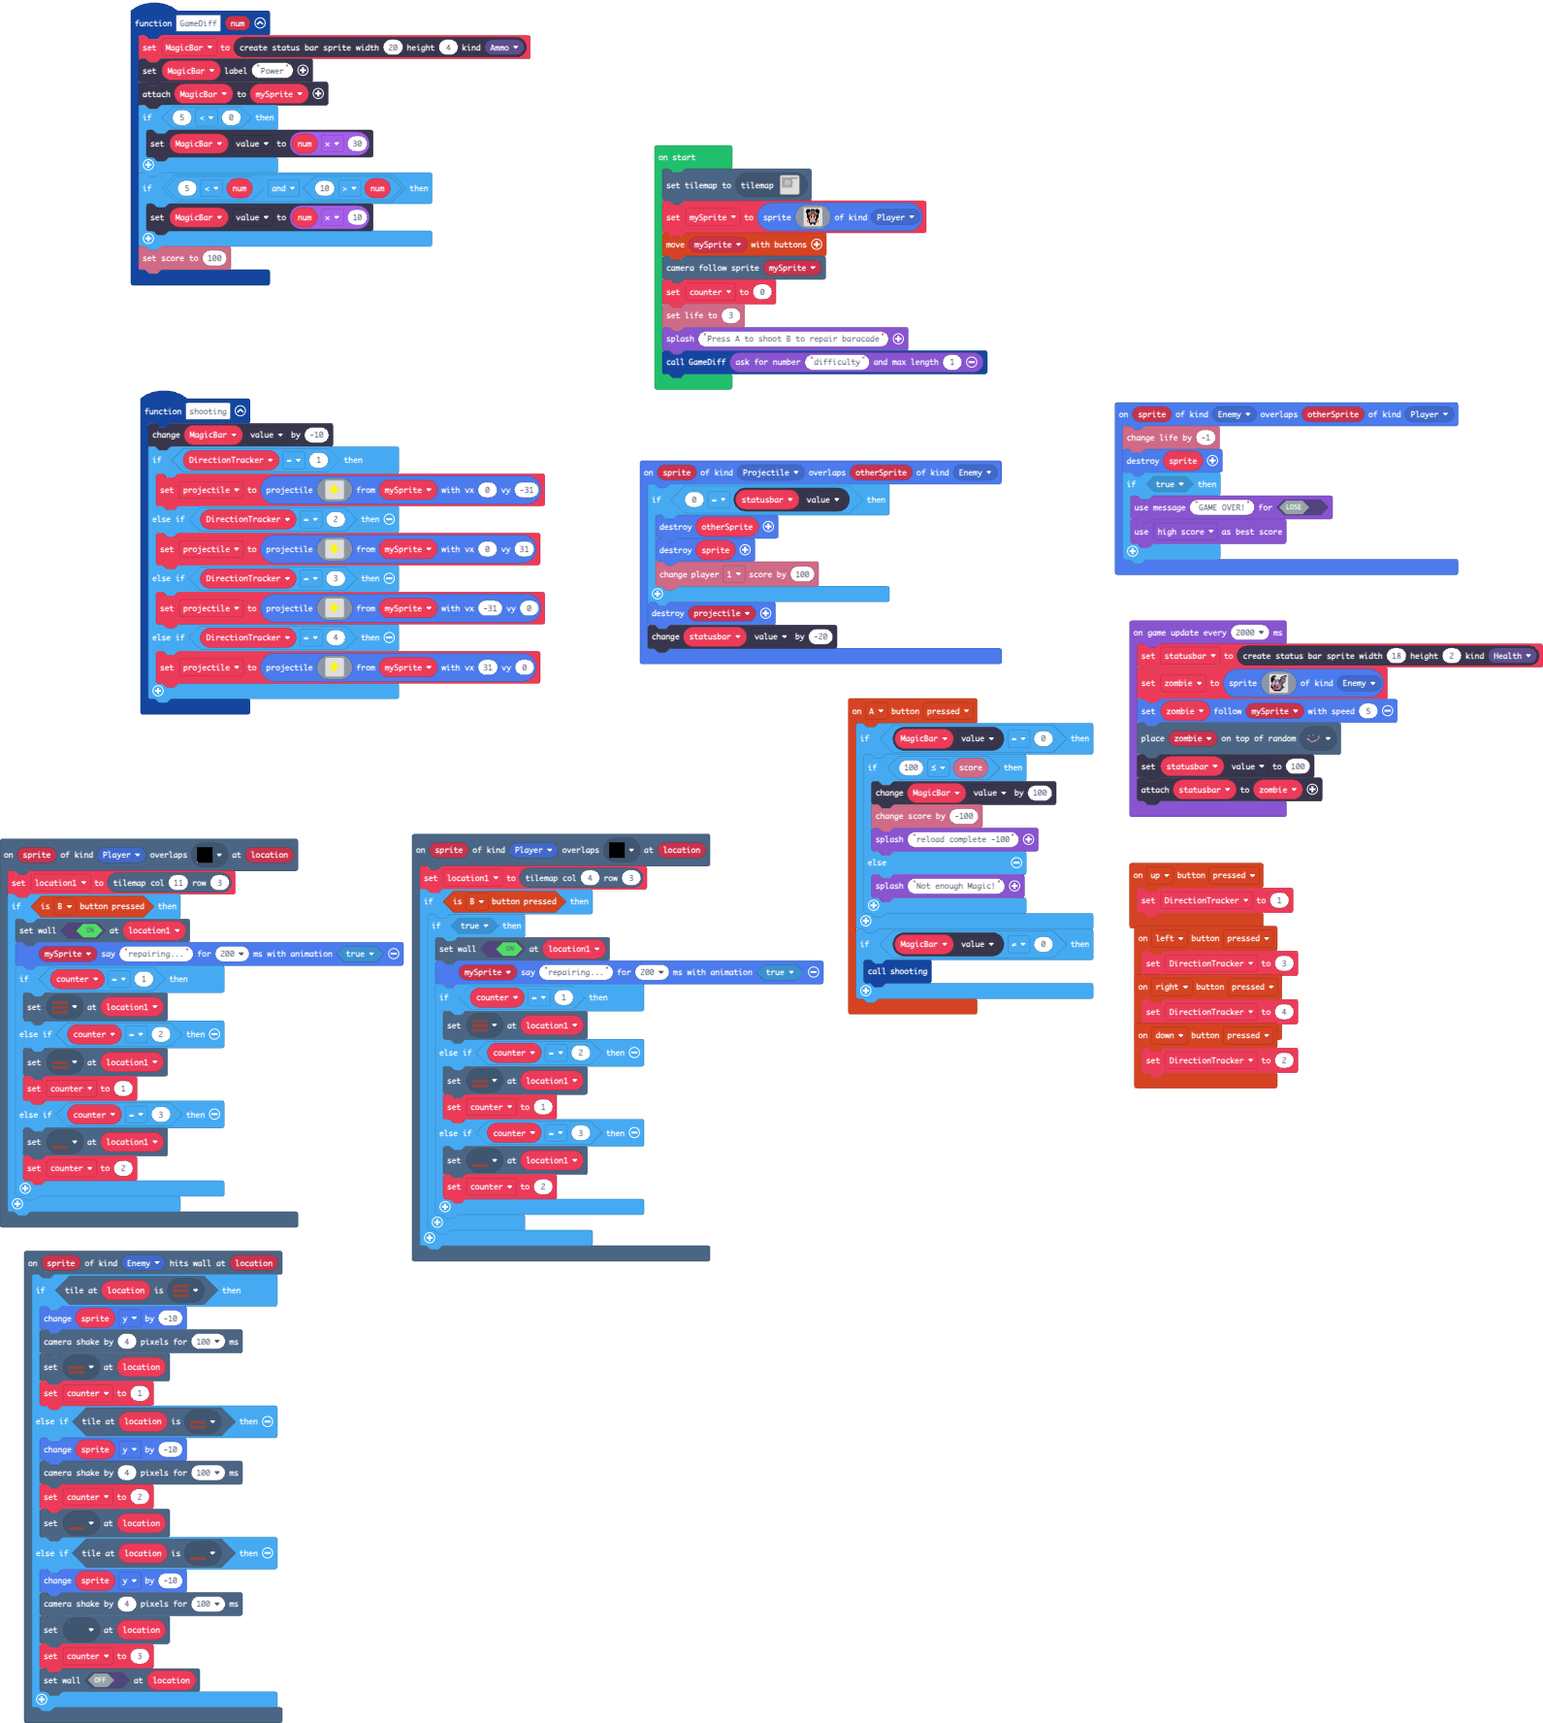
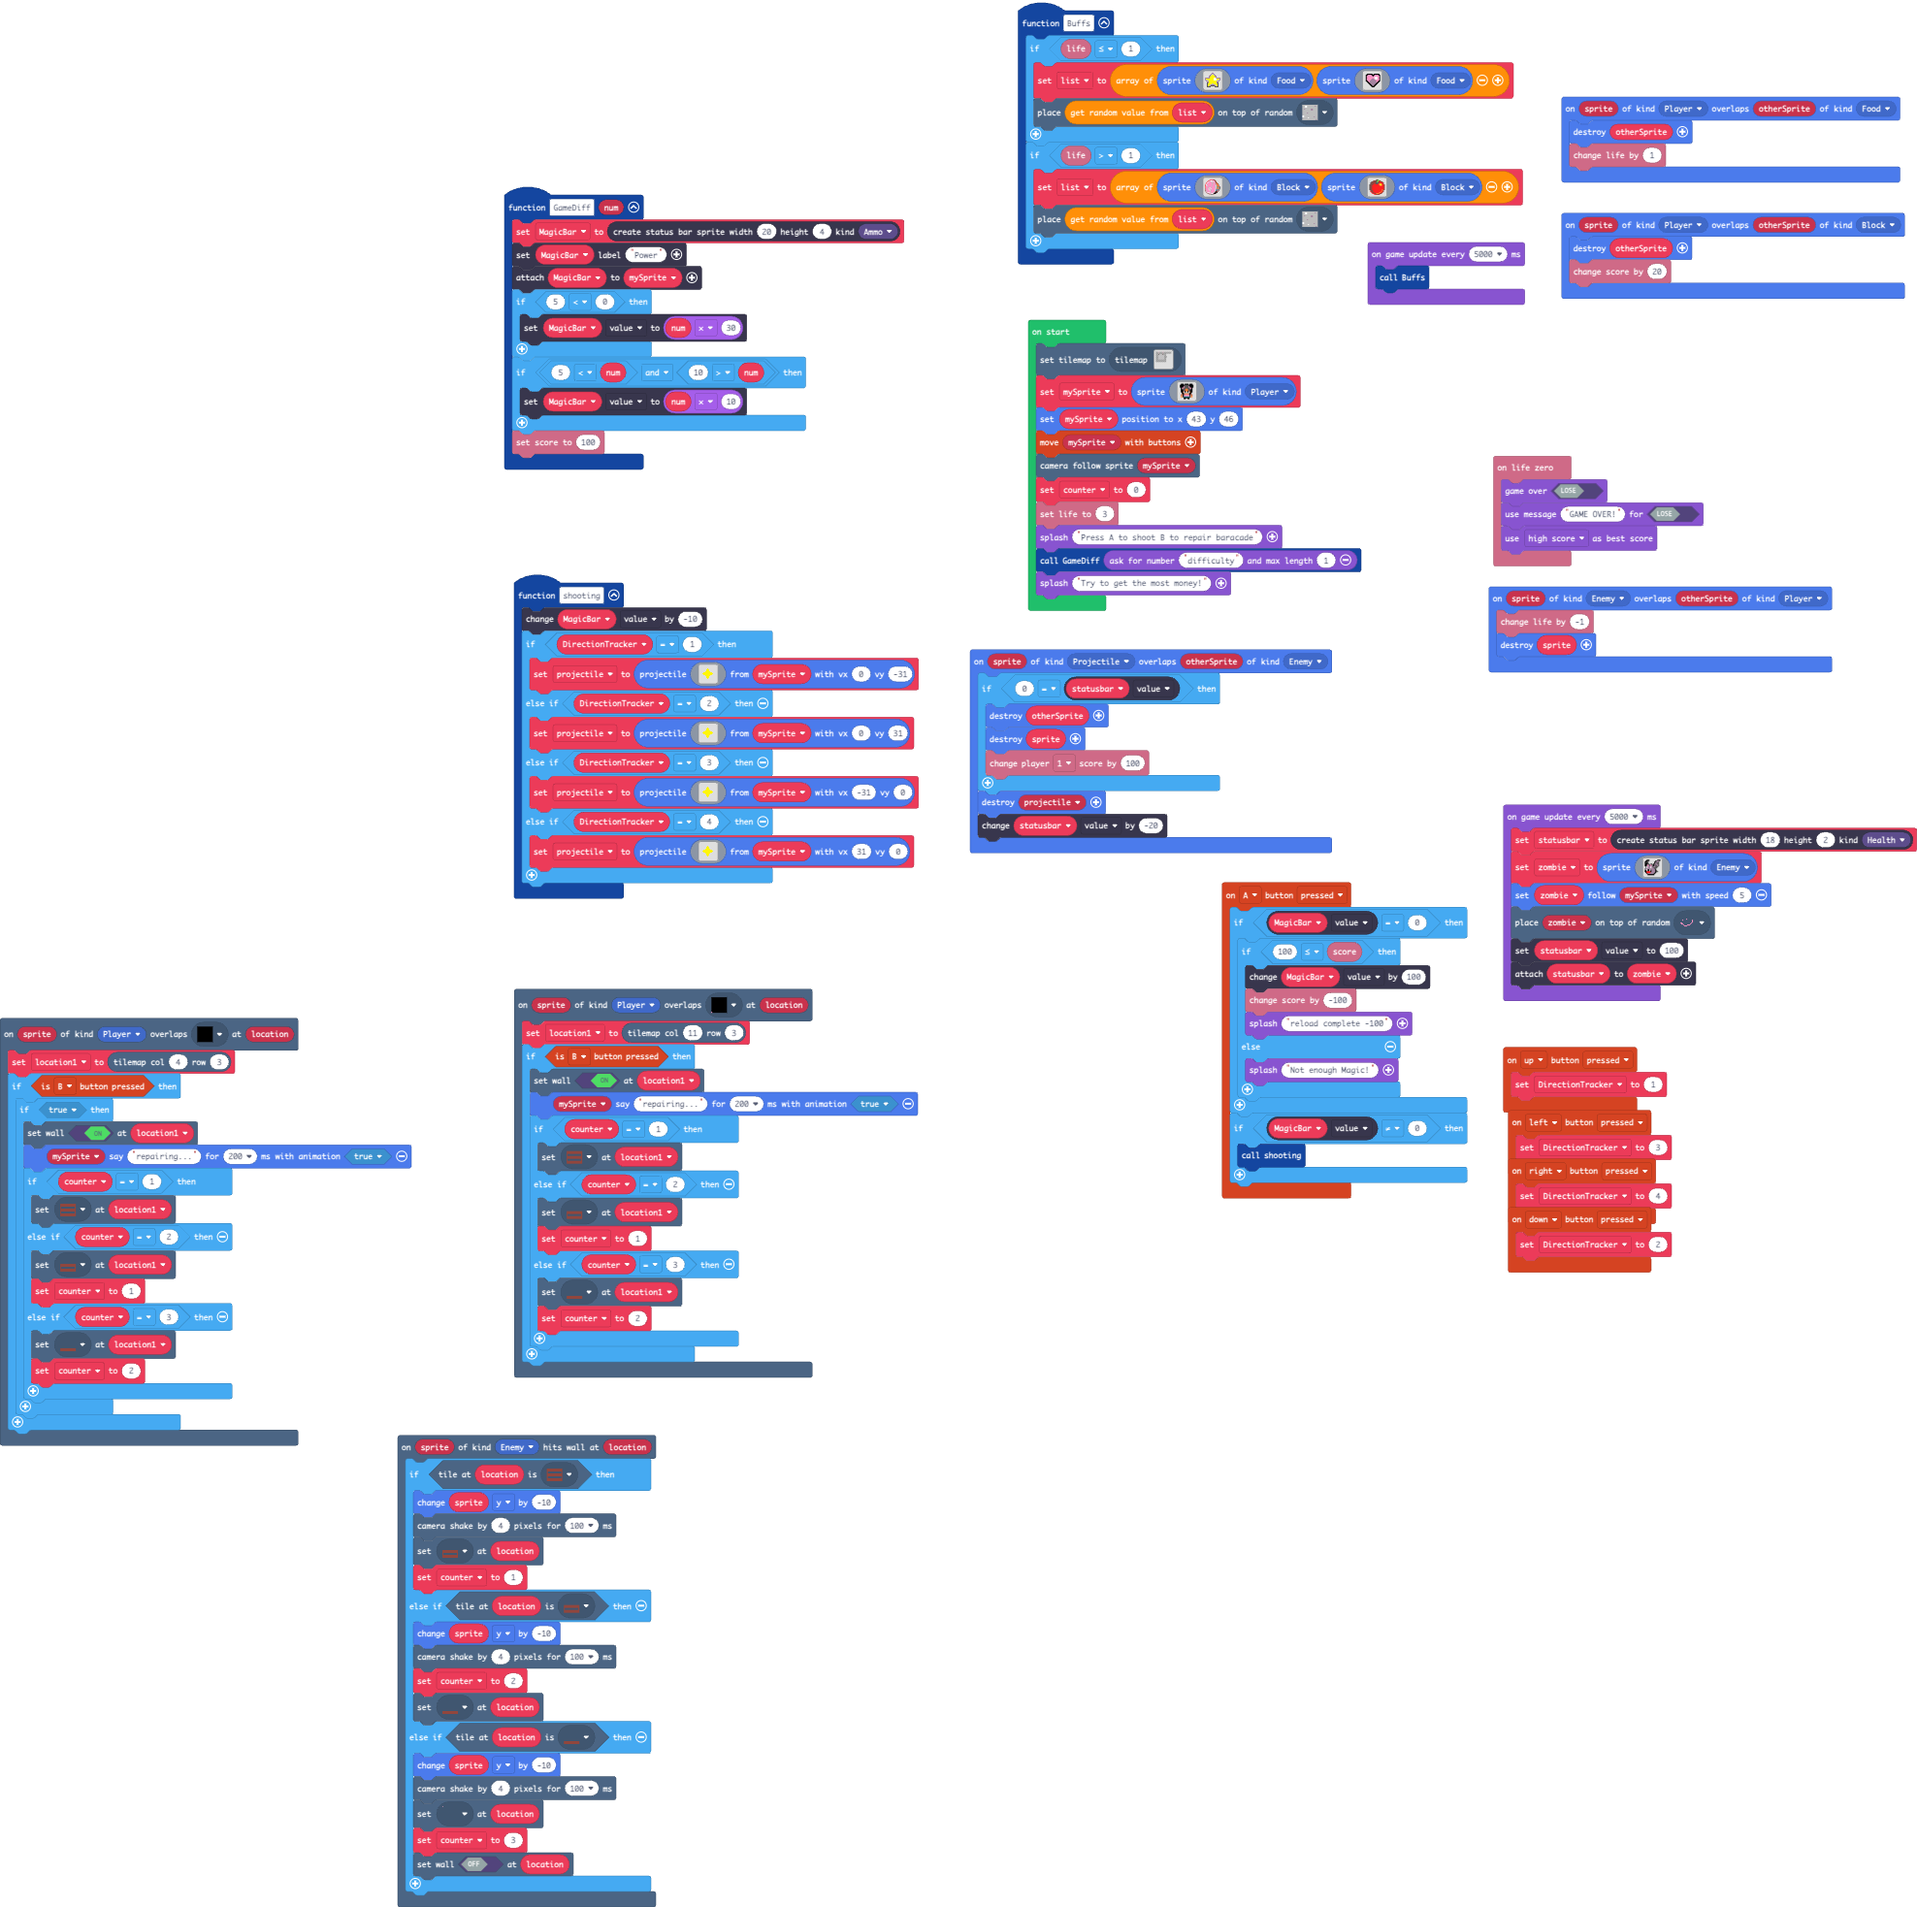
Update main.blocks, main.ts

diff --git a/main.ts b/main.ts
@@ -23,6 +23,10 @@ scene.onOverlapTile(SpriteKind.Player, assets.tile`FLOOR0`, function (sprite, lo
 controller.up.onEvent(ControllerButtonEvent.Pressed, function () {
     DirectionTracker = 1
 })
+sprites.onOverlap(SpriteKind.Player, SpriteKind.Block, function (sprite, otherSprite) {
+    sprites.destroy(otherSprite)
+    info.changeScoreBy(20)
+})
 controller.A.onEvent(ControllerButtonEvent.Pressed, function () {
     if (MagicBar.value == 0) {
         if (100 <= info.score()) {
@@ -37,6 +41,16 @@ controller.A.onEvent(ControllerButtonEvent.Pressed, function () {
         shooting()
     }
 })
+function Buffs () {
+    if (info.life() <= 1) {
+        list = [sprites.create(assets.image`Star`, SpriteKind.Food), sprites.create(assets.image`heart`, SpriteKind.Food)]
+        tiles.placeOnRandomTile(list._pickRandom(), sprites.castle.tilePath5)
+    }
+    if (info.life() > 1) {
+        list = [sprites.create(assets.image`meat`, SpriteKind.Block), sprites.create(assets.image`apple`, SpriteKind.Block)]
+        tiles.placeOnRandomTile(list._pickRandom(), sprites.castle.tilePath5)
+    }
+}
 controller.left.onEvent(ControllerButtonEvent.Pressed, function () {
     DirectionTracker = 3
 })
@@ -65,10 +79,6 @@ controller.right.onEvent(ControllerButtonEvent.Pressed, function () {
 sprites.onOverlap(SpriteKind.Enemy, SpriteKind.Player, function (sprite, otherSprite) {
     info.changeLifeBy(-1)
     sprites.destroy(sprite)
-    if (true) {
-        game.setGameOverMessage(false, "GAME OVER!")
-        game.setGameOverScoringType(game.ScoringType.HighScore)
-    }
 })
 function GameDiff (num: number) {
     MagicBar = statusbars.create(20, 4, StatusBarKind.Ammo)
@@ -84,6 +94,11 @@ function GameDiff (num: number) {
 }
 controller.down.onEvent(ControllerButtonEvent.Pressed, function () {
     DirectionTracker = 2
+})
+info.onLifeZero(function () {
+    game.gameOver(false)
+    game.setGameOverMessage(false, "GAME OVER!")
+    game.setGameOverScoringType(game.ScoringType.HighScore)
 })
 scene.onOverlapTile(SpriteKind.Player, assets.tile`FLOOR`, function (sprite, location) {
     location1 = tiles.getTileLocation(4, 3)
@@ -102,6 +117,10 @@ scene.onOverlapTile(SpriteKind.Player, assets.tile`FLOOR`, function (sprite, loc
             }
         }
     }
+})
+sprites.onOverlap(SpriteKind.Player, SpriteKind.Food, function (sprite, otherSprite) {
+    sprites.destroy(otherSprite)
+    info.changeLifeBy(1)
 })
 function shooting () {
     MagicBar.value += -10
@@ -127,6 +146,7 @@ sprites.onOverlap(SpriteKind.Projectile, SpriteKind.Enemy, function (sprite, oth
 let zombie: Sprite = null
 let statusbar: StatusBarSprite = null
 let projectile: Sprite = null
+let list: Sprite[] = []
 let MagicBar: StatusBarSprite = null
 let DirectionTracker = 0
 let location1: tiles.Location = null
@@ -134,13 +154,18 @@ let counter = 0
 let mySprite: Sprite = null
 tiles.setCurrentTilemap(tilemap`testing`)
 mySprite = sprites.create(assets.image`blob`, SpriteKind.Player)
+mySprite.setPosition(43, 46)
 controller.moveSprite(mySprite)
 scene.cameraFollowSprite(mySprite)
 counter = 0
 info.setLife(3)
 game.splash("Press A to shoot B to repair baracade")
 GameDiff(game.askForNumber("difficulty", 1))
-game.onUpdateInterval(2000, function () {
+game.splash("Try to get the most money!")
+game.onUpdateInterval(5000, function () {
+    Buffs()
+})
+game.onUpdateInterval(5000, function () {
     statusbar = statusbars.create(18, 2, StatusBarKind.Health)
     zombie = sprites.create(assets.image`myImage0`, SpriteKind.Enemy)
     zombie.follow(mySprite, 5)
